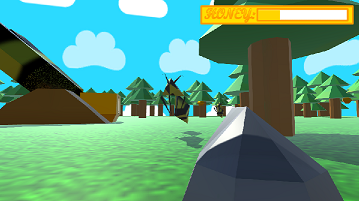
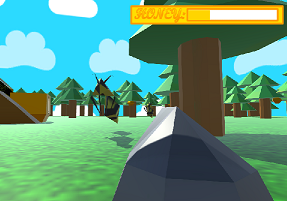
resize pictures

diff --git a/projects.html b/projects.html
@@ -20,7 +20,7 @@
 <p><a href="https://github.com/akseltaylan/raytracer">
 	<img src="/images/raytracersample1.png" alt="basic ray tracer" style="width:280px;height:204px;border:0;">
   </a> <a href="https://github.com/akseltaylan/honeybomb">
-	<img src="/images/hbscreenshot2.png" alt="HTML tutorial" style="width:359px;height:201px;border:0;">
+	<img src="/images/hbscreenshot2.png" alt="HTML tutorial" style="width:287px;height:201px;border:0;">
   </a> <a href="https://vimeo.com/292008471">
 	<img src="/images/diffeq1.png" alt="HTML tutorial" style="width:335px;height:186px;border:0;">
   </a>
